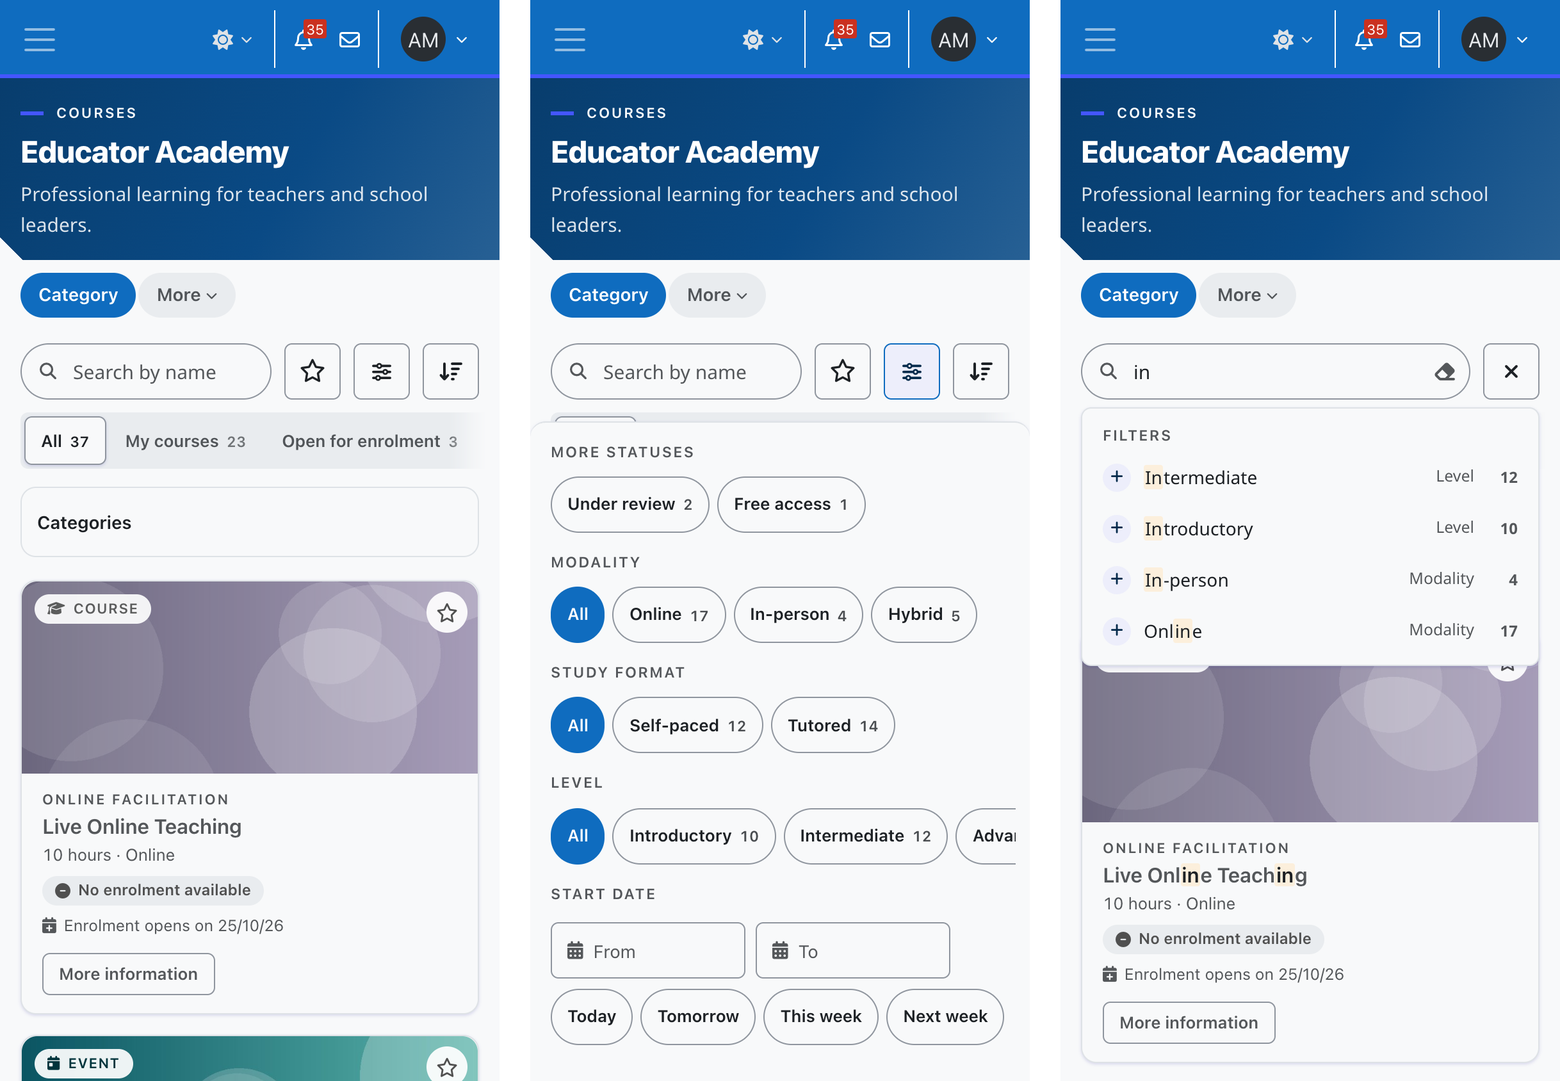
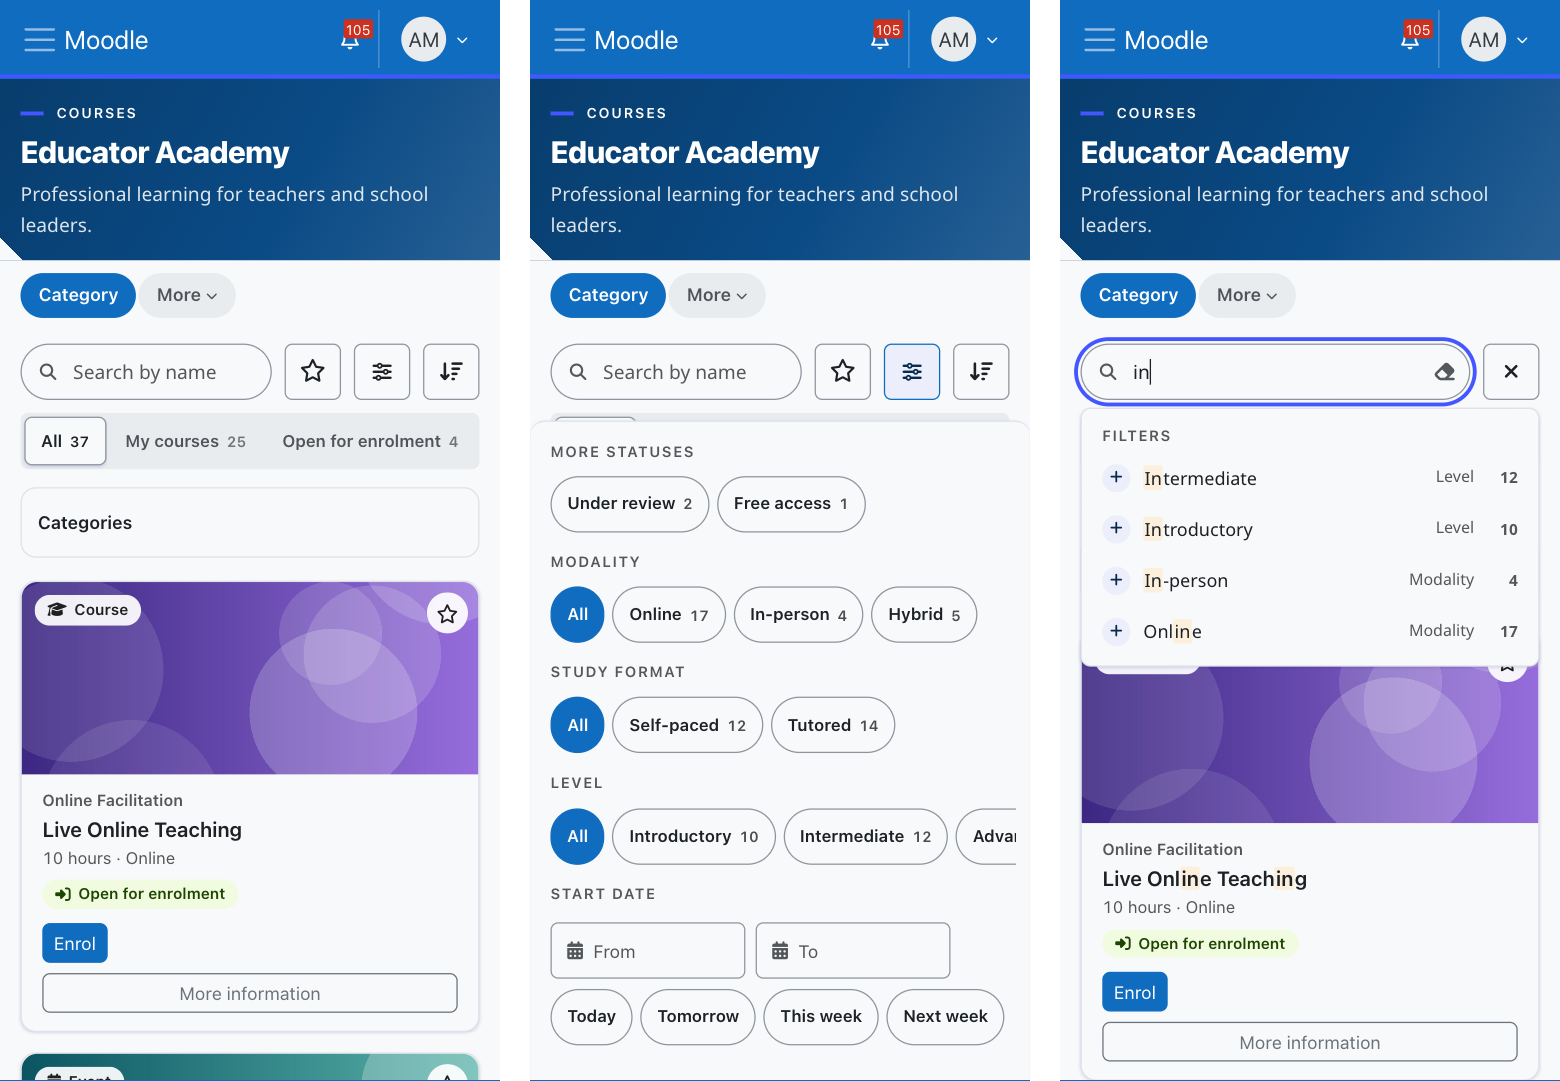
Retake the README showcase shots for the unified course card [skip ci]
The fleet's unified course card changed every card the showcase draws. Retaken on m503 in the
Dimensions theme as demo.student, Educator Academy, at the old pixel sizes: vitrine (the first
area's panel open), tablet, phone (at rest, Filters as a bottom sheet, the search with "in"),
preview (pointing at Open for enrolment), dark (Moodle's data-bs-theme colour mode) and
filtered (Online and Intermediate). The site's name is shown as "Moodle", as before. Counts
follow today's demo data (25 enrolments, 4 open for enrolment, no Scheduled course).

diff --git a/README.md b/README.md
@@ -92,7 +92,7 @@ week, Next week). *Done*, or a press outside, applies it; Escape leaves the peri
 force. Days are the site's days, never the browser's. The badge on *Filters* counts what the panel
 holds.
 
-![Pointing at the Open for enrolment cell: the two open courses on screen are outlined, every other card recedes](docs/screenshots/preview.png)
+![Pointing at the Open for enrolment cell: the open courses on screen are outlined, every other card recedes](docs/screenshots/preview.png)
 
 **Preview before you press.** Pointing at a scope cell, the star, a panel option or a suggestion
 rings the cards it would keep and recedes the rest, by colour rather than transparency, so the
